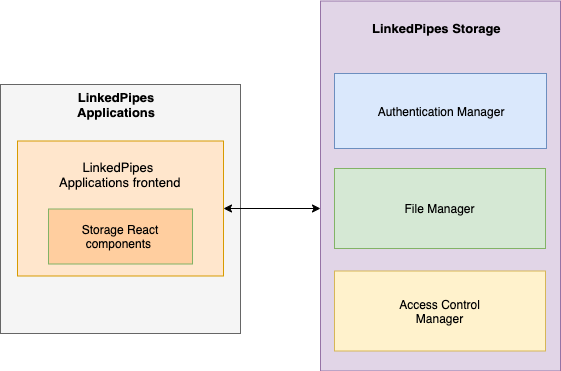
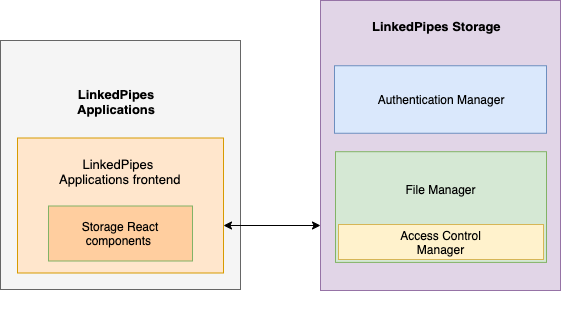
Finalizing architecture chapter

diff --git a/solid_diploma_thesis/chapters/04_Architecture.tex b/solid_diploma_thesis/chapters/04_Architecture.tex
@@ -11,11 +11,18 @@ While the majority of components were described in detail in chapter  \ref{chap:
 \centering
 \includegraphics[width=14cm]{lpas_high_level_architecture.png}
 \caption{High level overview of \lpa{} and \lpas{} interactions}
-\label{fig:lps_authentication_sequence_diagram.png}
+\label{fig:lpas_high_level_architecture}
 \end{figure}
 
 As additionally demonstrated, the figure \ref{fig:lpas_high_level_architecture} also has Docker icons displayed under some modules. This is to indicate where the production-ready service is hosted. For instance, in the case of the \lpas{}, the end goal is the npm registry, while \lps{} and \lpa{} are all hosted in the docker registry where each internal component is a docker container.
 The generic interaction flow usually involves direct communication between the \lpa{} frontend and \lpas{} package. The internal frontend component have various React components implemented using the \lpas{} package that provide navigation and interaction with \solid{} Pods. While the package is designed under the assumption that the \lpa{} is the only user of the package, some abstractions are generic enough and have the potential to be used outside of the scope of the main functional requirements. The implementation chapter will also cover a generic use-case on how quick start with application development based on \solid{}.
+
+\subsubsection{The evolution of solid specifications}
+
+At the moment of writing this chapter, the official \solid{} specification reached version \texttt{0.7.0} \footnote{\url{https://github.com/solid/solid-spec/blob/master/CHANGELOG.md}}. Introducing many changes and improvements, it also adds an extra layer of complexity with every release, changing some of the conventions or updating some fundamental paradigms. As a result, when \lpa{} was initially implemented, it was based on an older specification and older versions of \texttt{NSS}, that had simpler and more extensive ability to manipulate \texttt{ACL} files. The work within this project however was focused around putting efforts into making it generic enough so that people could use it as a guideline for any started \solid{} apps, while the implementation will fit all \lpa{} requirements.
+
+The main note to mention for the further section in this chapter is that the architecture design was derived with an aim to rely on official specification of \solid{} while also referring to the provided functionality of \texttt{NSS} that does not always strictly follow the guidelines in specification. 
+
 
 \section{The Storage}
 
@@ -64,20 +71,218 @@ Sequence diagram on figure \ref{fig:lps_authentication_sequence_diagram} demonst
 \label{fig:lps_authentication_sequence_diagram}
 \end{figure}
 
+
 \subsection{File Manager}
 % TODO: add citations
-The File Manager is responsible for implementing the CRUD operations for the \solid{}  providers that are compliant with LinkedData Platform specification. The LinkedData Platform or LDP is a specification that is reused and extended in the \solid{} specification to describe the REST API for interacting with LDP Resources and LDP Containers. LDP Resources and LDP Containers are, in some sense, the basic building blocks of any \solid{} POD, since they allow users to create any files and folders.
+The File Manager is responsible for implementing the CRUD operations for the \solid{}  providers that are compliant with LinkedData Platform specification. The LinkedData Platform or LDP is a specification that is reused and extended in the \solid{} specification to describe the REST API for interacting with LDP Resources and LDP Containers. LDP Resources and LDP Containers are, in some sense, the basic building blocks of any \solid{} POD, since they allow users to create any files and folders. 
+
+As mentioned earlier, \solid{} specification is re-using the LDP specification\footnote{https://www.w3.org/TR/ldp/} to provide a RESTful set of operations to interact with any compliant implementation of that specification. 
+
+The LDP has an extensive set of resource types that are suited for defining the folder and files. However, the architecture provided is relying on two common resource terminologies that were simple enough to cover the requirements without complicating the design of the architecture. Those resources are defined as follows:
+
+\begin{itemize}
+%	Cite resource 
+ 	\item Linked Data Platform Basic Container (LDP-BC), is a Linked Data Platform Basic Container. A LDP-RS representing a collection of linked documents that responds to client requests for creation, modification, and/or enumeration of its linked members and documents, and that conforms to the simple lifecycle patterns and conventions.
+	\item A HTTP resource whose state is represented in any way that conforms to the simple lifecycle patterns and conventions. The LDP servers process the CRUD operations to manipulate the lifecycle of LDPRs.
+\end{itemize}
+
 
 \subsubsection{Creating resources}
 
-\subsubsection{Updating resources}
+The most essential operation thats is at the core of most functional requirements defined earlier is the ability to create a resource in a POD. Using NSS server as a basis the general convention for creating LDP resources is a \texttt{POST} providing link to the POD under the path where resource need to be created. 
 
 \subsubsection{Reading resources}
 
+Reading the resources demonstrated on figure \ref{fig:lps_get_resource_sequence} is a straightforwards set of interactions with an \solid{} specification compliant server, and it can be described as follows:
+
+\begin{enumerate}
+    \item \lpa{} frontend invokes the FileManager abstraction with a request specified in \texttt{ResourceConfig} abstraction. The configuration provided contains information on the type of the resource, whether it is a folder or a file, as well as all required information to identify the resource within the POD.
+    \item \lpas{} constructs an HTTP GET request to obtain the information from \solid{} server from the provider, the response is simply forwarded in asynchronous fashion.
+\end{enumerate}
+
+As demonstrated in steps above, the LDP specification provides advantages by narrowing down the amount of resource lifecycle related calls to as set of very simple CRUD operations. Another important detail is that every single resource created by \lpas{} is an RDF. We will cover more information and demonstrate why it is implemented in that way in the proceeding chapter.  
+ 
+\begin{figure}[h]
+\centering
+\includegraphics[width=10cm]{get_resource.png}
+\caption{Sequence diagram for \textit{GET} resource operation invoked from StorageFileManager.}
+\label{fig:lps_get_resource_sequence}
+\end{figure}
+
+\subsubsection{Renaming resources}
+
+The rename operation covers one of the functional requirements on \lpa{} platform. It is based on some simpler CRUD operations described in earlier sections. The intent is to provide an ability for an \lpa{} developer to implement a functionality to let \lpa{} platform users to choose and manipulate their storage configuration folders. 
+
+The flow on the sequence diagram displayed on figure \ref{fig:lps_rename_resource} consist of the following steps:
+
+\begin{enumerate}
+    \item \lpa{} frontend invokes the FileManager abstraction with a request specified in \texttt{ResourceConfig} abstraction, this is similar to input steps in previous sequence diagrams. 
+    \item \lpas{} has a conditional check to see whether the new provided resource configuration is not accidentally the resource under same title. This step is followed if the new path and title for a configuration is not equal to an old configuration.
+    	\begin{enumerate}
+    	\item Invoke the copy method that will depending on the resource either will copy it directly, if it is a file, or copy it recursively if it is a folder. For a sake of reducing the unnecessary details, the internals of the copy resource call is not displayed on this diagram.
+    	\item After copying the content of configuration into new destination, the old resource it removed using the delete operation.
+    	\end{enumerate}
+    \item \lpas{} returns a successful promise since no renaming is invoked in that case. 
+\end{enumerate}
+
+\begin{figure}[h]
+\centering
+\includegraphics[width=10cm]{rename_resource.png}
+\caption{Sequence diagram for a complex operation to rename a particular resource in StorageFileManager.}
+\label{fig:lps_rename_resource}
+\end{figure}
+
 \subsubsection{Deleting resources}
+
+Deletion of resources is slightly more complicated in comparison with trivial GET, POST, PUT or PATCH operations described in earlier sections. The main goal here is to differentiate the type of the resource and depending on whether it is an LDP Basic Container or generic LDP Resource, act accordingly to delete all files under that resource. 
+The flow from figure \ref{fig:lps_delete_resource} can be described as follows:
+
+\begin{enumerate}
+    \item Similar to previous sequence flows, the action is triggered by an input request from \lpa{} frontend
+    \item If resource is and LDP Resource, FileManager trivially sends 
+   	a single DELETE request to the server and returns the response
+    \item If resource is an LDP Basic Container:
+    	\begin{enumerate}
+    	\item Invokes a method for recursively deleting contents of a folder.
+    	\item Within that method, it performs a call that fetches the raw RDF describing the LDP Basic Container and parses the resources contained within using. 
+    	\item Iterate over files, remove the individually as in first step.
+    	\item Iterate over folders, remove them individually as in first step 
+    	\end{enumerate}
+\end{enumerate}
+
+
+\begin{figure}[h]
+\centering
+\includegraphics[width=8cm]{delete_resource.png}
+\caption{Sequence diagram for a complex operation to delete a particular resource in StorageFileManager.}
+\label{fig:lps_delete_resource}
+\end{figure}
+
+
+One of the assumption made in this recursive operation is the interactions with \texttt{ACL} files when recursive delete is performed. As mentioned in the introduction to this chapter, \solid{} community is still at its beginnings and there are many significant improvements yet to introduce. In order to make the delete operation more generic, the DELETE interactions with \texttt{ACL} files were have to be removed due to a more strict access policy established between providers of the server and \solid{} apps. The following section will dive deeper into Access Control Managements and related functionality.
+
+\subsubsection{Classes overview}
+
+File manager is the biggest of all three abstractions displayed on the figure \ref{fig:lpas_high_level_abstractions}. Therefore, in order to better describe the architecture of it, a more detail class diagram is provided on figure \ref{fig:lps_file_manager_class_uml}.
+
+\begin{itemize}
+	\item The core class available to \lpa{} developers is the \textit{StorageFileManager}. All of the functions inside are intended to be public, static and asynchronous. 
+	\item \textit{ResourceConfiguration} is a wrapper for LDP Containers and LDP Resources. It allows a developer to specify \textit{title}, \textit{path} and \textit{type} of a resource. Most of the operations within the \textit{StorageFileManager} are operated with the resources encapsulated into \textit{ResourceConfiguration} classes. It also provides a few helper getters that allow to generate an absolute path to a resource within a pod. 
+	\item The \textit{AccessControlConfig} is a subclass of \textit{ResourceConfig}. It allows to specify the access control modes to individual resources. Additionally, it introduces a few extra functions to generate the absolute path that includes the \texttt{.acl} extension.   
+	\item The \textit{SolidResource} is a simple interface that includes various details specific to the resource. Some of the fields provided are also directly used by \textit{StorageFileManager} abstraction during construction of CRUD calls to \solid{} providers.
+\end{itemize}
+
+
+\begin{figure}[h]
+\centering
+\includegraphics[width=14cm]{lpas_storage_file_manager_uml.png}
+\caption{A higher level class diagram of classes contained within StorageFileManager abstraction.}
+\label{fig:lps_file_manager_class_uml}
+\end{figure}
+
 
 \subsection{Access Control Manager}
 
-The primary responsibility of the Access Control Manager is to support the File Manager entities and provide an ability to wrap them with Web Access Control compliant settings. In other words, this allows a developer of \lpa{} to programmatically control the Read and Write access to any resource inside an arbitrary \solid{} POD by utilizing the developer-friendly interfaces and classes defined within the scope of this abstraction.
+The primary responsibility of the Access Control Manager is a subset under File Manager abstraction. It is designed to support the File Manager entities and provide an ability to wrap them with Web Access Control compliant settings. In other words, this allows a developer of \lpa{} to programmatically control the Read and Write access to any resource inside an arbitrary \solid{} POD by utilising the developer-friendly interfaces and classes defined within the scope of this abstraction. Essentially every \texttt{ACL} files is nothing more than yet another RDF resource with few extra features. Hence, the abstraction was placed under the File Manager since the core logic is concerned with similar resource lifecycle manipulations.
+%TODO add citations
 
 It is yet another wrapper on top of the functionality provided by any \solid{} compliant servers. In this case, being \solid{} compliant also assumes conforming to Web Access Control or WAC specification. It defines the so-called Access Control Resources, which are entities serving as the declaration of access control privileges for a specific resource. Within the context of \solid{} specification this means managing access rights to resources in \solid{} PODS for various WebIDs.
+
+The main function provided by the abstraction is an acl file generator. The flow on the figure \ref{fig:lps_acl_update_flow} demonstrated the process of generation, parsing and serialization of ACL files: 
+
+\begin{enumerate}
+	\item Create Access Control triples for specified input resource configuration file.
+	\item Create individual triples defining acl configuration for a resource owner.
+	\item Create individual triples for public access, if the resource itself is marked as public.
+	\item Gather and parse those triples into a an rdflib abstraction representing an RDF Graph.
+	\item Serialize this graph instance into a string representing a \texttt{text/turtle} file.
+	\item Finally perform an HTTP call, that uses PUT to create an ACL file attached to a specified resource.
+\end{enumerate}
+
+This concludes the section demonstrating the essential abstractions within the \lpas{} package. The consecutive chapters dedicated to Documentation will cover and provide more details regarding less significant classes and utilities available inside the package.
+
+\begin{figure}[h]
+\centering
+\includegraphics[width=14cm]{acl_update_flow.png}
+\caption{A higher level class diagram of classes contained within StorageFileManager abstraction.}
+\label{fig:lps_acl_update_flow}
+\end{figure}
+
+
+\section{LinkedPipes Applications vocabulary}
+
+\subsection{Configuration}
+\subsubsection{VisualizerConfiguration}
+\subsubsection{FilterConfiguration}
+\subsubsection{FilterGroup}
+
+
+\begin{figure}[h]
+\centering
+\includegraphics[width=14cm]{lpas_vocabulary_visualziation.png}
+\caption{A class hierarchy visualizaiton of \lpa{} vocabulary.}
+\label{fig:lpas_vocabulary_visualziation}
+\end{figure}
+
+\section{Storage Component design conventions}
+
+Now after the major components of the \lpas{} package are described, let us dive deeper into the implementations done on the frontend side inside the \lpa{} codebase. 
+
+The \lpa{} frontend codebase was implemented using React\footnote{https://reactjs.org} and was utilising a modern stack of frontend development tools, all of those had to be taken into consideration to design React Component responsible for interactions with the storage. This section will cover the design conventions inherited from \lpa{} as well as a detailed overview of User Interfaces conforming to Material Design\footnote{https://material.io/design} conventions that were strongly utilized in \lpa{} frontend.  
+
+\subsection{Designing the React component}
+
+At the root, \lpa{} frontend identifies two main types of components that are logically separated into folders titled as follows:
+\begin{itemize}
+	\item \texttt{Components} folder, these usually contain elements that are used in more than one webpage throughout the project, such as buttons, switches, image wrappers and etc.
+	\item \texttt{Containers} folder, represent complex react components that are basically rendering individual webpages or sub-elements of webpages that deal with complex user interaction scenarios.
+\end{itemize}
+
+\subsubsection{Simple components}
+
+Whenever an individual component needs to be implemented and it will be used in multiple webpages throughout the project, it is being placed into \texttt{Components} folder.
+
+There are two main types of components that can be placed into \texttt{Components} folder and have different design conventions:
+\begin{itemize}
+	\item Simple stateless component responsible for plain rendering.
+	\item A complex component that needs to aggregate multiple sub-components, manage external state, internal states and etc.
+\end{itemize}
+
+
+This is not a strict guideline defined by \lpa{} developers. However, if a component becomes too complex, as demonstrated on figure \ref{fig:lpas_component_design} the intent is to split component into separate component responsible for rendering and component that manages states of the stateless component. This allows easier navigation within frontend codebase as well as faster code debugging. 
+
+\begin{figure}[h]
+\centering
+\includegraphics[width=8cm]{lpas_component_design.png}
+\caption{React container abstraction decomposition following \lpas{} design conventions.}
+\label{fig:lpas_component_design}
+\end{figure}
+
+Therefore, this concludes the only major design conventions that were required by \lpa{} frontend. Let us go over the details of each individual component in the following sections.
+
+\subsection{Storage Dashboard}
+
+Referring back to the functional requirements stated in first chapters, the ability to interact with the \lpas{} is an essential feature allowing users of \lpa{} platform to manipulate their Applications. The mock displayed on \ref{fig:lpas_ui_dashboard_mock} is a webpage accessible via the home dashboard. There are two main display modes:
+
+\begin{itemize}
+	\item The \textit{My apps} tab, is a React component that fetches all RDF resources in root \lpas{} folder containing applications created by a user. 
+	\item The \textit{Shared} tab, is a React component fetching all RDF resources in a shared \lpas{} folder containing applications created and shared by a particular users with other users of \lpas{} platform.
+\end{itemize}
+
+
+\begin{figure}[h]
+\centering
+\includegraphics[width=11cm]{lpas_ui_dashboard_mock.png}
+\caption{Mock UI for Storage Dashboard webpage in \lpa{} Frontend.}
+\label{fig:lpas_ui_dashboard_mock}
+\end{figure}
+
+\subsection{Storage Visualizer Preview}
+
+
+\begin{figure}[h]
+\centering
+\includegraphics[width=11cm]{lpas_ui_preview_mock.png}
+\caption{Mock UI for Visualizer preview popup in \lpa{} Frontend.}
+\label{fig:lpas_ui_preview_mock}
+\end{figure}
